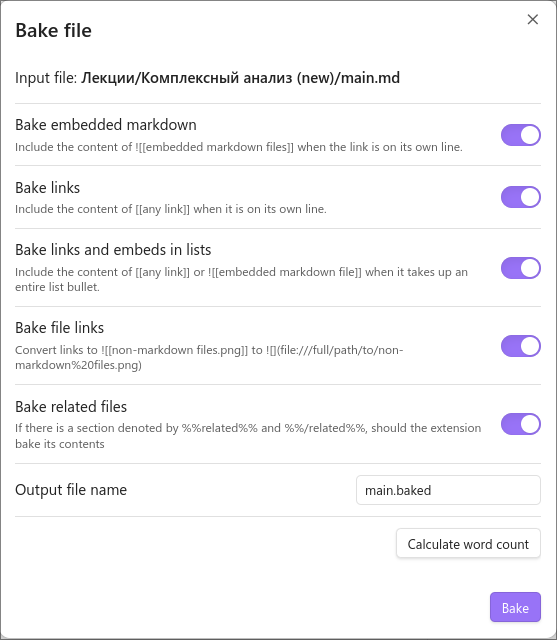
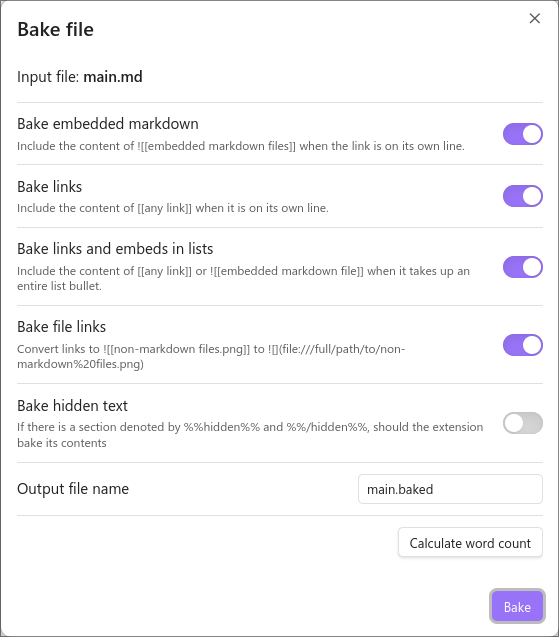
Rename related to hidden

diff --git a/src/bake.ts b/src/bake.ts
@@ -31,13 +31,13 @@ export async function bake(
   let text = await vault.cachedRead(file);
   const cache = metadataCache.getFileCache(file);
 
-  // Find and remove text that is between %%related%% and %%/related%% comments
-  // do it only if the setting `bakeRelated` is disabled
-  if (!settings.bakeRelated) {
-    const relatedStart = text.indexOf('%%related%%');
-    const relatedEnd = text.indexOf('%%/related%%', relatedStart + 1);
-    if (relatedStart !== -1 && relatedEnd !== -1) {
-      text = text.substring(0, relatedStart) + text.substring(relatedEnd + 12);
+  // Find and remove text that is between %%hidden%% and %%/hidden%% comments
+  // do it only if the setting `bakeHidden` is disabled
+  if (!settings.bakeHidden) {
+    const hiddenStart = text.indexOf('%%hidden%%');
+    const hiddenEnd = text.indexOf('%%/hidden%%', hiddenStart + 1);
+    if (hiddenStart !== -1 && hiddenEnd !== -1) {
+      text = text.substring(0, hiddenStart) + text.substring(hiddenEnd + 12);
     }
   }
 

diff --git a/src/BakeModal.ts b/src/BakeModal.ts
@@ -84,11 +84,11 @@ export class BakeModal extends Modal {
       );
 
     new Setting(contentEl)
-      .setName('Bake related files')
-      .setDesc('If there is a section denoted by %%related%% and %%/related%%, should the extension bake its contents')
+      .setName('Bake hidden text')
+      .setDesc('If there is a section denoted by %%hidden%% and %%/hidden%%, should the extension bake its contents')
       .addToggle((toggle) =>
-        toggle.setValue(settings.bakeRelated).onChange((value) => {
-          settings.bakeRelated = value;
+        toggle.setValue(settings.bakeHidden).onChange((value) => {
+          settings.bakeHidden = value;
           plugin.saveSettings();
         })
       );

diff --git a/README.md b/README.md
@@ -51,8 +51,8 @@ Content of file four
 ---
 
 ## New feature
-This plugin now can work with "related" sections in files.
-If you denote some section of the file with `%%related%%` and `%%/related%%` tags, the plugin will ignore the text between these tags, unless the related option is set to true.
+This plugin now can work with "hidden" sections in files.
+If you denote some section of the file with `%%hidden%%` and `%%/hidden%%` tags, the plugin will ignore the text between these tags, unless the related option is set to true.
 
 
 For example,
@@ -71,9 +71,9 @@ This is an [[File three|inline link]].
 ```
 with File one containing:
 ```markdown
-%%related%%
+%%hidden%%
 This line should be ignored.
-%%/related%%
+%%/hidden%%
 Content of file one
 ```
 
